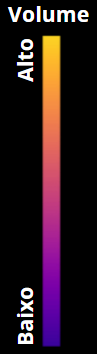
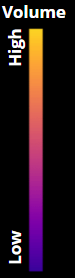
Changing to english

Changed region(s): [[0.0267, 0.0, 0.9333, 1.0]]

diff --git a/README.md b/README.md
@@ -1,11 +1,13 @@
-# Fora do Garrafão
+# Hot Shot 🔥
 
-## Ciência de Dados X NBA 🏀📈
+# Data Science X NBA 🏀📈
 
 Nesse repositório se encontra todo o código e dados utilizados para desenvolver gráficos e análises da página e blog "Fora do Garrafão". Dê uma olhada nas análises nas seguintes redes sociais:
+
+In this repo you can find all code and data used to build visualizations and analyses from the page and blog "Hot Shot". Check it out all our social medias:
 
 - [Instagram](https://www.instagram.com/foradogarrafao/)
 - [Twitter](https://twitter.com/foradogarrafao)
 - [Medium](https://medium.com/fora-do-garraf%C3%A3o)
 
-<img src="imagens/cover.jpeg">
+<img src="images/cover.png">
